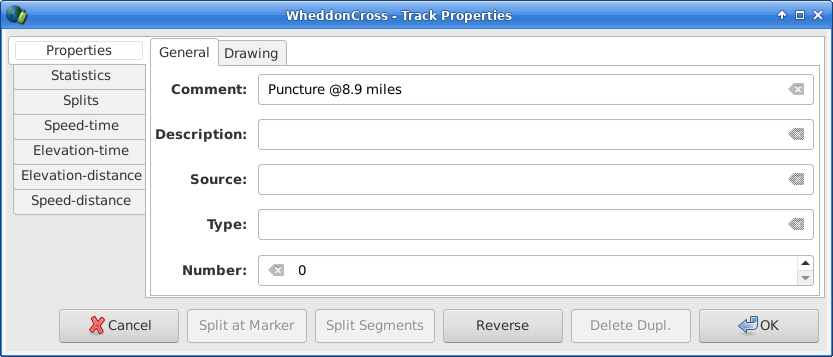
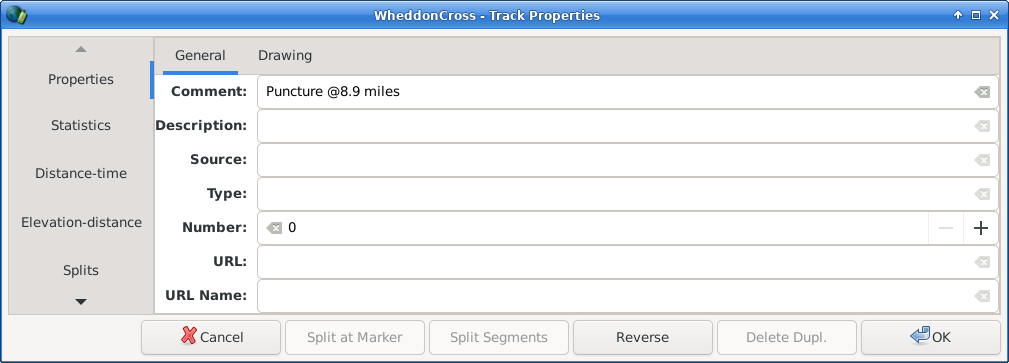
Support GPX 1.0 & 1.1 Track URL/Link properties

Changed region(s): [[0.0, 0.0, 1.0, 1.0], [0.0624, 0.7087, 0.0936, 0.7703], [0.0, 0.8627, 0.0312, 0.8936]]

diff --git a/src/gpx.c b/src/gpx.c
@@ -79,6 +79,9 @@ typedef enum {
         tt_trk_src,
         tt_trk_number,
         tt_trk_type,
+        tt_trk_url,
+        tt_trk_url_name,
+        tt_trk_link,
 
         tt_trk_extensions,      // GPX 1.1
         tt_trk_an_extension,    // Generic GPX 1.1 extensions
@@ -184,6 +187,10 @@ static tag_mapping tag_path_map[] = {
         { tt_trk_src, "/gpx/trk/src" },
         { tt_trk_number, "/gpx/trk/number" },
         { tt_trk_type, "/gpx/trk/type" },
+        { tt_trk_url, "/gpx/trk/url" },             // GPX 1.0 only
+        { tt_trk_url_name, "/gpx/trk/urlname" },    // GPX 1.0 only
+        { tt_trk_link, "/gpx/trk/link" },           // GPX 1.1
+        { tt_trk_url_name, "/gpx/trk/link/text" },  // GPX 1.1
 
         { tt_trk_trkseg, "/gpx/trk/trkseg" },
         { tt_trk_trkseg_trkpt, "/gpx/trk/trkseg/trkpt" },
@@ -573,6 +580,7 @@ static void gpx_start(UserDataT *ud, const char *el, const char **attr)
 
      case tt_gpx_url:
      case tt_wpt_link:
+     case tt_trk_link:
        c_link = get_attr ( attr, "href" );
        break;
      case tt_gpx_url_name:
@@ -609,6 +617,8 @@ static void gpx_start(UserDataT *ud, const char *el, const char **attr)
      case tt_trk_src:
      case tt_trk_number:
      case tt_trk_type:
+     case tt_trk_url:
+     case tt_trk_url_name:
      case tt_trk_name:
        g_string_erase ( c_cdata, 0, -1 ); /* clear the cdata buffer */
        break;
@@ -942,6 +952,24 @@ static void gpx_end(UserDataT *ud, const char *el)
        g_string_erase ( c_cdata, 0, -1 );
        break;
 
+     case tt_trk_url:
+       vik_track_set_url ( c_tr, c_cdata->str );
+       g_string_erase ( c_cdata, 0, -1 );
+       break;
+
+     case tt_trk_url_name:
+       vik_track_set_url_name ( c_tr, c_cdata->str );
+       g_string_erase ( c_cdata, 0, -1 );
+       break;
+
+     case tt_trk_link:
+       if ( c_link )
+         if ( util_is_url(c_link) )
+           vik_track_set_url ( c_tr, c_link );
+       c_link = NULL;
+       g_string_erase ( c_cdata, 0, -1 );
+       break;
+
      case tt_trk_cmt:
        vik_track_set_comment ( c_tr, c_cdata->str );
        g_string_erase ( c_cdata, 0, -1 );
@@ -1092,6 +1120,9 @@ static void gpx_cdata(void *dta, const XML_Char *s, int len)
     case tt_trk_src:
     case tt_trk_number:
     case tt_trk_type:
+    case tt_trk_url:
+    case tt_trk_url_name:
+    case tt_trk_link:
     case tt_trk_trkseg_trkpt_time:
     case tt_wpt_time:
     case tt_trk_trkseg_trkpt_name:
@@ -1720,6 +1751,12 @@ static void gpx_write_track ( VikTrack *t, GpxWritingContext *context )
   write_string ( f, TRK_SPACES, "desc", t->description );
   write_string ( f, TRK_SPACES, "src", t->source );
   write_positive_uint ( f, TRK_SPACES, "number", t->number );
+  if ( t->url && context->options && context->options->version == GPX_V1_1 ) {
+    write_link ( f, TRK_SPACES, t->url, t->url_name );
+  } else {
+    write_string ( f, TRK_SPACES, "url", t->url );
+    write_string ( f, TRK_SPACES, "urlname", t->url_name );
+  }
   write_string ( f, TRK_SPACES, "type", t->type );
 
   // ATM Track Colour is the only extension Viking supports editing

diff --git a/src/viktrwlayer_propwin.c b/src/viktrwlayer_propwin.c
@@ -118,6 +118,8 @@ typedef struct _propwidgets {
   GtkWidget *w_description;
   GtkWidget *w_source;
   GtkWidget *w_number;
+  GtkWidget *w_url;
+  GtkWidget *w_url_name;
   GtkWidget *w_type;
   GtkWidget *w_color;
   GtkWidget *w_namelabel;
@@ -2756,6 +2758,20 @@ static void propwin_response_cb( GtkDialog *dialog, gint resp, PropWidgets *widg
           changed = TRUE;
         }
       }
+      str = gtk_entry_get_text(GTK_ENTRY(widgets->w_url));
+      if ( g_strcmp0(tr->url, str) ) {
+        if ( tr->url || (str && strlen(str)) ) {
+          vik_track_set_url ( tr, str );
+          changed = TRUE;
+        }
+      }
+      str = gtk_entry_get_text(GTK_ENTRY(widgets->w_url_name));
+      if ( g_strcmp0(tr->url_name, str) ) {
+        if ( tr->url_name || (str && strlen(str)) ) {
+          vik_track_set_url_name ( tr, str );
+          changed = TRUE;
+        }
+      }
       GdkColor color;
       gtk_color_button_get_color ( GTK_COLOR_BUTTON(widgets->w_color), &color );
       if ( !gdk_color_equal(&color, &(tr->color)) ) {
@@ -3622,7 +3638,7 @@ void vik_trw_layer_propwin_run ( GtkWindow *parent,
 
   gtk_notebook_set_scrollable ( GTK_NOTEBOOK(graphs), TRUE );
 
-  GtkWidget *content_prop[5];
+  GtkWidget *content_prop[7];
   int cnt_prop = 0;
 
   static gchar *label_texts[] = {
@@ -3631,6 +3647,8 @@ void vik_trw_layer_propwin_run ( GtkWindow *parent,
     N_("Source:"),
     N_("Type:"),
     N_("Number:"),
+    N_("URL:"),
+    N_("URL Name:"),
   };
 
   // Allow any textual entry to be considered as a URL
@@ -3639,6 +3657,8 @@ void vik_trw_layer_propwin_run ( GtkWindow *parent,
     tr->description,
     tr->source,
     tr->type,
+    NULL,
+    tr->url,
     NULL,
   };
 
@@ -3665,6 +3685,16 @@ void vik_trw_layer_propwin_run ( GtkWindow *parent,
 
   widgets->w_number = ui_spin_button_new ( (GtkAdjustment*)gtk_adjustment_new(tr->number,0,9999,1,10,0), 10.0, 0 );
   content_prop[cnt_prop++] = widgets->w_number;
+
+  widgets->w_url = ui_entry_new ( NULL, GTK_ENTRY_ICON_SECONDARY );
+  if ( tr->url )
+    gtk_entry_set_text ( GTK_ENTRY(widgets->w_url), tr->url );
+  content_prop[cnt_prop++] = widgets->w_url;
+
+  widgets->w_url_name = ui_entry_new ( NULL, GTK_ENTRY_ICON_SECONDARY );
+  if ( tr->url_name )
+    gtk_entry_set_text ( GTK_ENTRY(widgets->w_url_name), tr->url_name );
+  content_prop[cnt_prop++] = widgets->w_url_name;
 
   GtkWidget *content_draw[3];
   guint cnt_draw = 0;

diff --git a/src/viktrack.c b/src/viktrack.c
@@ -113,6 +113,28 @@ void vik_track_set_source(VikTrack *tr, const gchar *source)
     tr->source = NULL;
 }
 
+void vik_track_set_url(VikTrack *tr, const gchar *url)
+{
+  if ( tr->url )
+    g_free ( tr->url );
+
+  if ( url && url[0] != '\0' )
+    tr->url = g_strdup(url);
+  else
+    tr->url = NULL;
+}
+
+void vik_track_set_url_name(VikTrack *tr, const gchar *url_name)
+{
+  if ( tr->url_name )
+    g_free ( tr->url_name );
+
+  if ( url_name && url_name[0] != '\0' )
+    tr->url_name = g_strdup(url_name);
+  else
+    tr->url_name = NULL;
+}
+
 void vik_track_set_type(VikTrack *tr, const gchar *type)
 {
   if ( tr->type )
@@ -164,6 +186,10 @@ void vik_track_free(VikTrack *tr)
     g_free ( tr->description );
   if ( tr->source )
     g_free ( tr->source );
+  if ( tr->url )
+    g_free ( tr->url );
+  if ( tr->url_name )
+    g_free ( tr->url_name );
   if ( tr->type )
     g_free ( tr->type );
   if ( tr->extensions )
@@ -214,6 +240,8 @@ VikTrack *vik_track_copy ( const VikTrack *tr, gboolean copy_points )
   vik_track_set_comment(new_tr,tr->comment);
   vik_track_set_description(new_tr,tr->description);
   vik_track_set_source(new_tr,tr->source);
+  vik_track_set_url(new_tr,tr->url);
+  vik_track_set_url_name(new_tr,tr->url_name);
   vik_track_set_type(new_tr,tr->type);
   vik_track_set_extensions(new_tr,tr->extensions);
   return new_tr;
@@ -2027,6 +2055,8 @@ void vik_track_marshall ( VikTrack *tr, guint8 **data, guint *datalen)
   vtm_append(tr->comment);
   vtm_append(tr->description);
   vtm_append(tr->source);
+  vtm_append(tr->url);
+  vtm_append(tr->url_name);
   vtm_append(tr->type);
   vtm_append(tr->extensions);
 
@@ -2087,6 +2117,8 @@ VikTrack *vik_track_unmarshall (const guint8 *data_in, guint datalen)
   vtu_get(new_tr->comment);
   vtu_get(new_tr->description);
   vtu_get(new_tr->source);
+  vtu_get(new_tr->url);
+  vtu_get(new_tr->url_name);
   vtu_get(new_tr->type);
   vtu_get(new_tr->extensions);
 

diff --git a/src/gpspoint.c b/src/gpspoint.c
@@ -321,6 +321,12 @@ gboolean a_gpspoint_read_file(VikTrwLayer *trw, FILE *f, const gchar *dirpath ) 
       if ( line_source )
         vik_track_set_source ( pl, line_source );
 
+      if ( line_url )
+        vik_track_set_url ( pl, line_url );
+
+      if ( line_url_name )
+        vik_track_set_url_name ( pl, line_url_name );
+
       if ( line_number )
         pl->number = line_number;
 
@@ -851,6 +857,8 @@ static void a_gpspoint_write_track ( const VikTrack *trk, FILE *f )
   write_string ( f, "comment", trk->comment );
   write_string ( f, "description", trk->description );
   write_string ( f, "source", trk->source );
+  write_string ( f, "url", trk->url );
+  write_string ( f, "url_name", trk->url_name );
   write_positive_uint ( f, "number", trk->number );
   write_string ( f, "xtype", trk->type );
 

diff --git a/src/viktrack.h b/src/viktrack.h
@@ -86,6 +86,8 @@ struct _VikTrack {
   gchar *comment;
   gchar *description;
   gchar *source;
+  gchar *url;
+  gchar *url_name;
   guint number;
   gchar *type;
   guint8 ref_count;
@@ -111,6 +113,8 @@ void vik_track_set_name(VikTrack *tr, const gchar *name);
 void vik_track_set_comment(VikTrack *tr, const gchar *comment);
 void vik_track_set_description(VikTrack *tr, const gchar *description);
 void vik_track_set_source(VikTrack *tr, const gchar *source);
+void vik_track_set_url(VikTrack *tr, const gchar *url);
+void vik_track_set_url_name(VikTrack *tr, const gchar *url_name);
 void vik_track_set_type(VikTrack *tr, const gchar *type);
 void vik_track_set_extensions(VikTrack *tr, const gchar *value);
 void vik_track_ref(VikTrack *tr);
